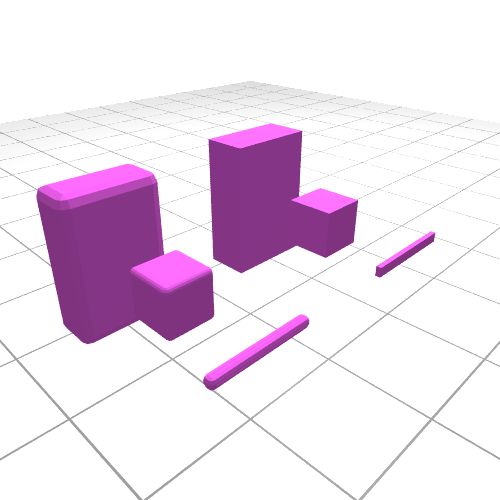
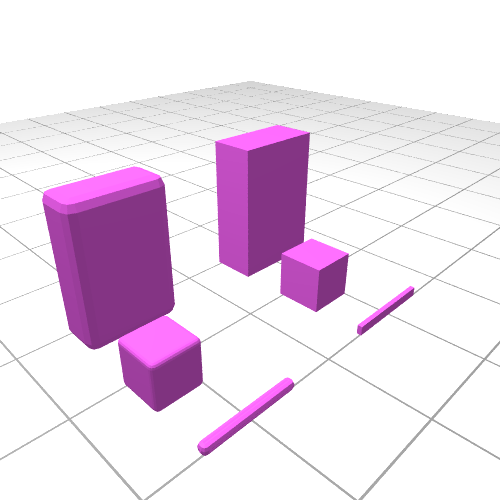
cylinder center: false fixed

diff --git a/openscad.js b/openscad.js
@@ -179,7 +179,7 @@ function cylinder(p) {
       } else if(p&&p.center==true) { 
          off = [0,0,-h/2];
       } else if(p&&p.center==false) {
-         off = [r,r,0];
+         off = [0,0,0];
       }
       if(off[0]||off[1]||off[2]) o = o.translate(off);
    }
